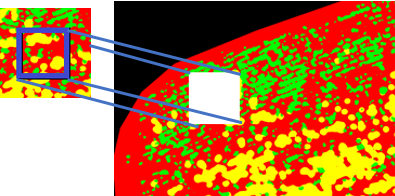
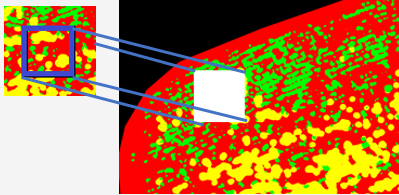
Insert reconstruction image to poster

diff --git a/docs/poster/main.tex b/docs/poster/main.tex
@@ -151,6 +151,13 @@ L = \frac 1 N \sum_{i=1}^{N} \mathbf{w}[i, c_i]  \cdot
 %% Hvordan regulariseres netværket
 %% Data transformeringer 
 %% Hyperparametre 
+\section{Reconstruction}
+\begin{figure}
+	\centering
+	\includegraphics[width=0.7\linewidth]{"Reconstruction DL"}
+	\caption{}
+	\label{fig:reconstruction-dl}
+\end{figure}
 
 \section{Different Metrics, Different Stories}
 
